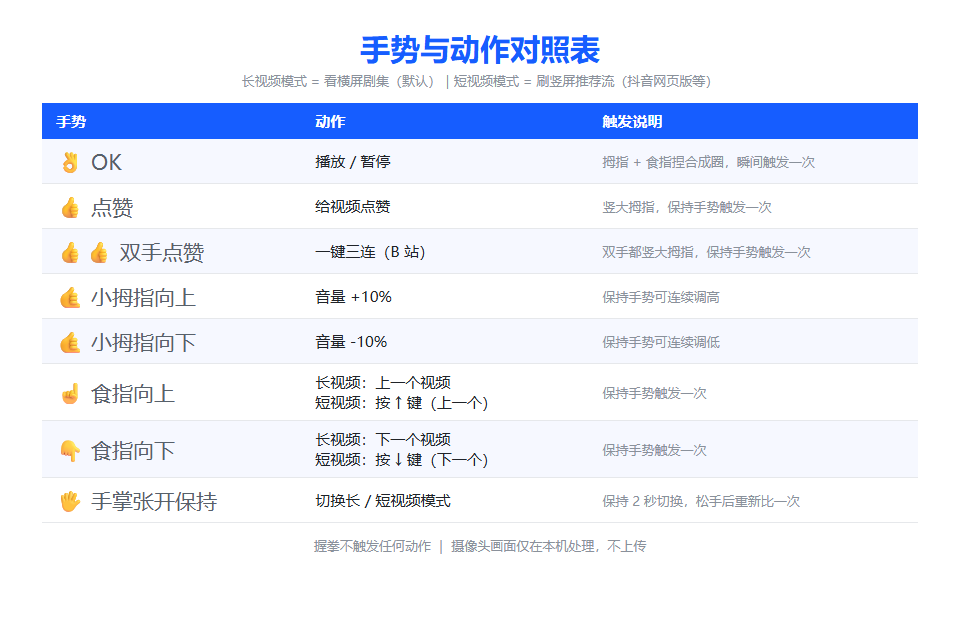
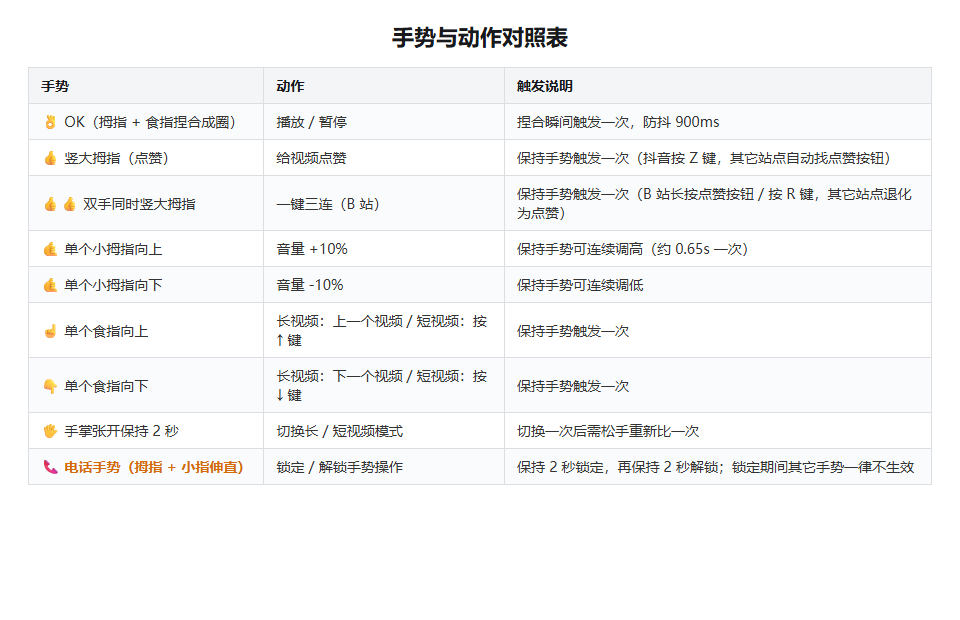
feat: 电话手势锁定/解锁引擎（保持2秒锁定，锁定期任何手势不生效；同步README与手势对照图）

diff --git a/float.js b/float.js
@@ -70,7 +70,10 @@ const state = {
   handLostFrames: 0,     // 连续没检测到手的帧数（显示防抖用）
   shortVideoMode: false, // 短视频模式（默认长视频模式）
   palmHoldStart: null,   // 手掌张开保持计时的起点
-  palmHoldTriggered: false // 本次保持是否已触发过模式切换
+  palmHoldTriggered: false, // 本次保持是否已触发过模式切换
+  phoneLocked: false,    // 电话手势锁定：锁定后不执行任何手势操作
+  phoneHoldStart: null,  // 电话手势保持计时的起点
+  phoneHoldTriggered: false // 本次保持是否已触发过锁定/解锁
 };
 
 // 显示防抖：身体晃动造成的“疑似手”会一闪而过。
@@ -94,6 +97,8 @@ const GESTURE_EMOJI = {
   '食指向下': '👇',
   '握拳': '✊',
   '手掌张开': '🖐',
+  '电话': '📞',
+  '🔒 已锁定': '🔒',
   '其他手势': '🫱',
   '未检测到手': '🙈',
   '等待识别…': '🖐'
@@ -190,6 +195,14 @@ async function onShortToggleChange() {
   state.shortVideoMode = !!els.shortToggle.checked;
   await chrome.storage.local.set({ shortVideoMode: state.shortVideoMode });
   setModelStatus(state.shortVideoMode ? '已切换到短视频模式（食指上=下滑，食指下=上滑）' : '已切回长视频模式');
+}
+
+// 电话手势保持 2 秒：锁定 / 解锁引擎
+function togglePhoneLock() {
+  const next = !state.phoneLocked;
+  state.phoneLocked = next;
+  setGestureLocal('电话', next ? '🔒 已锁定：手势操作已暂停，再比一次电话手势解锁' : '🔓 已解锁：手势操作已恢复');
+  setModelStatus(next ? '🔒 已锁定（电话手势解锁）' : '🔓 已解锁');
 }
 
 // ============================================================
@@ -667,6 +680,8 @@ function handleRecResult(result) {
     state.okPinched = false;
     state.palmHoldStart = null;
     state.palmHoldTriggered = false;
+    state.phoneHoldStart = null;
+    state.phoneHoldTriggered = false;
     state.stablePose = '';
     state.stableFrames = 0;
     state.bothLikeFrames = 0;
@@ -682,7 +697,11 @@ function handleRecResult(result) {
   const lm = hands[0];
   drawLandmarks(lm);
   const pose = GestureMath.classifyPose(lm);
-  setGestureLocal(pose.name, pose.detail + '（检测到 ' + hands.length + ' 只手）');
+  if (state.phoneLocked && pose.name !== '电话') {
+    setGestureLocal('🔒 已锁定', '手势操作已暂停，比出电话手势保持 2 秒解锁');
+  } else {
+    setGestureLocal(pose.name, pose.detail + '（检测到 ' + hands.length + ' 只手）');
+  }
 
   if (pose.name === state.stablePose) {
     state.stableFrames += 1;
@@ -692,6 +711,29 @@ function handleRecResult(result) {
   }
   const stable = state.stableFrames >= 3;
   const now = Date.now();
+
+  // 电话手势：保持 2 秒锁定 / 解锁引擎（锁定期间其它手势一律不执行操作）
+  if (pose.name === '电话') {
+    if (state.phoneHoldStart === null) {
+      state.phoneHoldStart = now;
+      setGestureLocal('电话', '保持电话手势 2 秒' + (state.phoneLocked ? '解锁' : '锁定') + '…');
+    } else if (!state.phoneHoldTriggered && now - state.phoneHoldStart >= 2000) {
+      state.phoneHoldTriggered = true;
+      togglePhoneLock();
+    }
+    return; // 电话手势本身不执行任何页面操作
+  }
+  state.phoneHoldStart = null;
+  state.phoneHoldTriggered = false;
+
+  // 已锁定：除电话手势外，其它手势一律不执行操作，并清掉残留触发状态
+  if (state.phoneLocked) {
+    state.okPinched = false;
+    state.bothLikeFrames = 0;
+    state.singleLikeFrames = 0;
+    state.lastVolumeTime = 0;
+    return;
+  }
 
   // 双手同时竖大拇指 → 一键三连（稳定 3 帧 + 防抖，触发后需松手重比）
   const likeCount = hands.filter((h) => GestureMath.classifyPose(h).name === '点赞').length;

diff --git a/offscreen.js b/offscreen.js
@@ -42,6 +42,9 @@ const state = {
   shortVideoMode: false, // 短视频模式（默认长视频模式）
   palmHoldStart: null,   // 手掌张开保持计时的起点
   palmHoldTriggered: false, // 本次保持是否已触发过模式切换
+  phoneLocked: false,    // 电话手势锁定：锁定后不执行任何手势操作
+  phoneHoldStart: null,  // 电话手势保持计时的起点
+  phoneHoldTriggered: false, // 本次保持是否已触发过锁定/解锁
   debounceMs: 900,
   volumeStep: 0.1,
   volumeRepeatMs: 650,
@@ -303,6 +306,8 @@ function onHandsResults(results) {
     state.okPinched = false;
     state.palmHoldStart = null;
     state.palmHoldTriggered = false;
+    state.phoneHoldStart = null;
+    state.phoneHoldTriggered = false;
     state.stablePose = '';
     state.stableFrames = 0;
     state.bothLikeFrames = 0;
@@ -325,7 +330,11 @@ function onHandsResults(results) {
     }
     notify();
   }
-  setGesture(pose.name, pose.detail + '（检测到 ' + hands.length + ' 只手）');
+  if (state.phoneLocked && pose.name !== '电话') {
+    setGesture('🔒 已锁定', '手势操作已暂停，比出电话手势保持 2 秒解锁');
+  } else {
+    setGesture(pose.name, pose.detail + '（检测到 ' + hands.length + ' 只手）');
+  }
 
   if (pose.name === state.stablePose) {
     state.stableFrames += 1;
@@ -335,6 +344,29 @@ function onHandsResults(results) {
   }
   const stable = state.stableFrames >= 3;
   const now = Date.now();
+
+  // 电话手势：保持 2 秒锁定 / 解锁引擎（锁定期间其它手势一律不执行操作）
+  if (pose.name === '电话') {
+    if (state.phoneHoldStart === null) {
+      state.phoneHoldStart = now;
+      setGesture('电话', '保持电话手势 2 秒' + (state.phoneLocked ? '解锁' : '锁定') + '…');
+    } else if (!state.phoneHoldTriggered && now - state.phoneHoldStart >= 2000) {
+      state.phoneHoldTriggered = true;
+      togglePhoneLock();
+    }
+    return; // 电话手势本身不执行任何页面操作
+  }
+  state.phoneHoldStart = null;
+  state.phoneHoldTriggered = false;
+
+  // 已锁定：除电话手势外，其它手势一律不执行操作，并清掉残留触发状态
+  if (state.phoneLocked) {
+    state.okPinched = false;
+    state.bothLikeFrames = 0;
+    state.singleLikeFrames = 0;
+    state.lastVolumeTime = 0;
+    return;
+  }
 
   // 双手同时竖大拇指 → 一键三连（稳定 3 帧 + 防抖，触发后需松手重比）
   const likeCount = hands.filter((h) => GestureMath.classifyPose(h).name === '点赞').length;
@@ -422,6 +454,14 @@ async function toggleShortVideoMode() {
   // 离屏文档无法直接写 storage，交给后台 Service Worker 落盘并通知其他界面
   chrome.runtime.sendMessage({ type: 'SHORT_VIDEO_MODE_SET', value: next }).catch(() => {});
   setGesture('手掌张开', next ? '已切换到短视频模式（食指上=↑，食指下=↓）' : '已切回长视频模式');
+  notify();
+}
+
+// 电话手势保持 2 秒：锁定 / 解锁引擎
+function togglePhoneLock() {
+  const next = !state.phoneLocked;
+  state.phoneLocked = next;
+  setGesture('电话', next ? '🔒 已锁定：手势操作已暂停，再比一次电话手势解锁' : '🔓 已解锁：手势操作已恢复');
   notify();
 }
 

diff --git a/gesture.js b/gesture.js
@@ -99,6 +99,16 @@ const GestureMath = (() => {
     const indexUp = indexSolo && lm[8].y < lm[6].y - 0.015;
     const indexDown = indexSolo && lm[8].y > lm[6].y + 0.015;
 
+    // 电话（打电话）：拇指 + 小指伸直，中间三指（食/中/无名）收着。
+    // 必须放在“小拇指”和“点赞”判定之前，否则会被它们抢走
+    //（电话手势也满足“小指伸直、其余三指未伸直”）。
+    const thumb = extensionScore(lm, 4, 3, 2);
+    const phonePose = thumb > EXT_WEAK && pinky > EXT_WEAK &&
+      idx < EXT_WEAK && mid < EXT_WEAK && ring < EXT_WEAK &&
+      thumb > idx * 0.9 && thumb > mid * 0.9 && thumb > ring * 0.9 &&
+      pinky > idx * 0.9 && pinky > mid * 0.9 && pinky > ring * 0.9;
+    if (phonePose) return { name: '电话', ok: false, detail: '拇指+小指伸直（打电话）' };
+
     // 单个小拇指：小指伸直，其余三指都收着。
     // 判定放宽：允许食指/中指/无名指只是“半弯”（不要求完全弯曲），
     // 只要它们都没伸直、且明显不如小指伸得开，就算小拇指。
@@ -125,7 +135,6 @@ const GestureMath = (() => {
 
     // 点赞（竖大拇指）：拇指明显伸直，其余四指都收着（不伸直）
     // 放最前面避免四指弯曲时被“握拳”抢走判定
-    const thumb = extensionScore(lm, 4, 3, 2);
     const thumbUp = thumb > EXT_WEAK &&
       idx < EXT_WEAK && mid < EXT_WEAK && ring < EXT_WEAK && pinky < EXT_WEAK &&
       idx < thumb * 0.85 && mid < thumb * 0.85 && ring < thumb * 0.85 && pinky < thumb * 0.85;

diff --git a/popup.js b/popup.js
@@ -54,6 +54,8 @@ const GESTURE_EMOJI = {
   '食指向下': '👇',
   '握拳': '✊',
   '手掌张开': '🖐',
+  '电话': '📞',
+  '🔒 已锁定': '🔒',
   '其他手势': '🫱',
   '未检测到手': '🙈',
   '等待识别…': '🖐'

diff --git a/content.js b/content.js
@@ -470,6 +470,8 @@
     '点赞': '👍',
     '双手点赞': '👍👍',
     '手掌张开': '🖐',
+    '电话': '📞',
+    '🔒 已锁定': '🔒',
     '握拳': '✊',
     '未检测到手': '🚫',
     '其他手势': '🖐'

diff --git a/README.md b/README.md
@@ -1,7 +1,7 @@
 # 手势视频控制 · Gesture Video Control
 
 > 用摄像头手势控制网页视频播放的 **Chrome / Edge 扩展（Manifest V3）**。
-> OK 手势播放/暂停、小拇指上下调节音量、食指上下切换视频，支持长/短视频双模式，B 站、YouTube 等任意网页播放器。
+> OK 手势播放/暂停、小拇指上下调节音量、食指上下切换视频，支持长/短视频双模式，电话手势可临时锁定，B 站、YouTube 等任意网页播放器。
 
 ![手势与动作对照表](docs/gesture-map.png)
 
@@ -43,6 +43,7 @@
 - 适配 YouTube / B 站「下一集 / 上一集」按钮，其它网站有通用兜底
 - **点赞 / 一键三连**：竖大拇指点赞，双手同时竖大拇指一键三连（B 站长按点赞按钮触发）
 - **长 / 短视频双模式**：手掌张开保持 2 秒一键切换；短视频模式下食指上下直接模拟键盘 ↑/↓ 切视频，兼容抖音网页版等推荐流
+- **电话手势锁定**：比出电话手势（拇指 + 小指伸直）保持 2 秒，引擎进入锁定状态，期间任何手势都不会操作页面；再比一次电话手势 2 秒即可解锁
 - 页面操作成功后会弹出轻量提示浮层（Shadow DOM 隔离，不污染页面样式）
 - 权限最小化：仅使用 `activeTab + scripting + storage`，不申请全站权限
 
@@ -58,6 +59,7 @@
 | ☝ 单个食指向上 | 长视频：上一个视频 / 短视频：按 ↑ 键（上一个视频） | 保持手势触发一次 |
 | 👇 单个食指向下 | 长视频：下一个视频 / 短视频：按 ↓ 键（下一个视频） | 保持手势触发一次 |
 | 🖐 手掌张开保持 2 秒 | 切换长 / 短视频模式 | 切换一次后需松手重新比一次 |
+| 📞 电话手势（拇指 + 小指伸直） | 锁定 / 解锁手势操作 | 保持 2 秒锁定（期间其它手势一律不生效），再保持 2 秒解锁 |
 > 注意：OK 手势不是靠“声音”识别（浏览器无法安全监听麦克风），而是靠“拇指尖与食指尖捏合成圈”的动作来识别。
 
 **长 / 短视频模式**：
